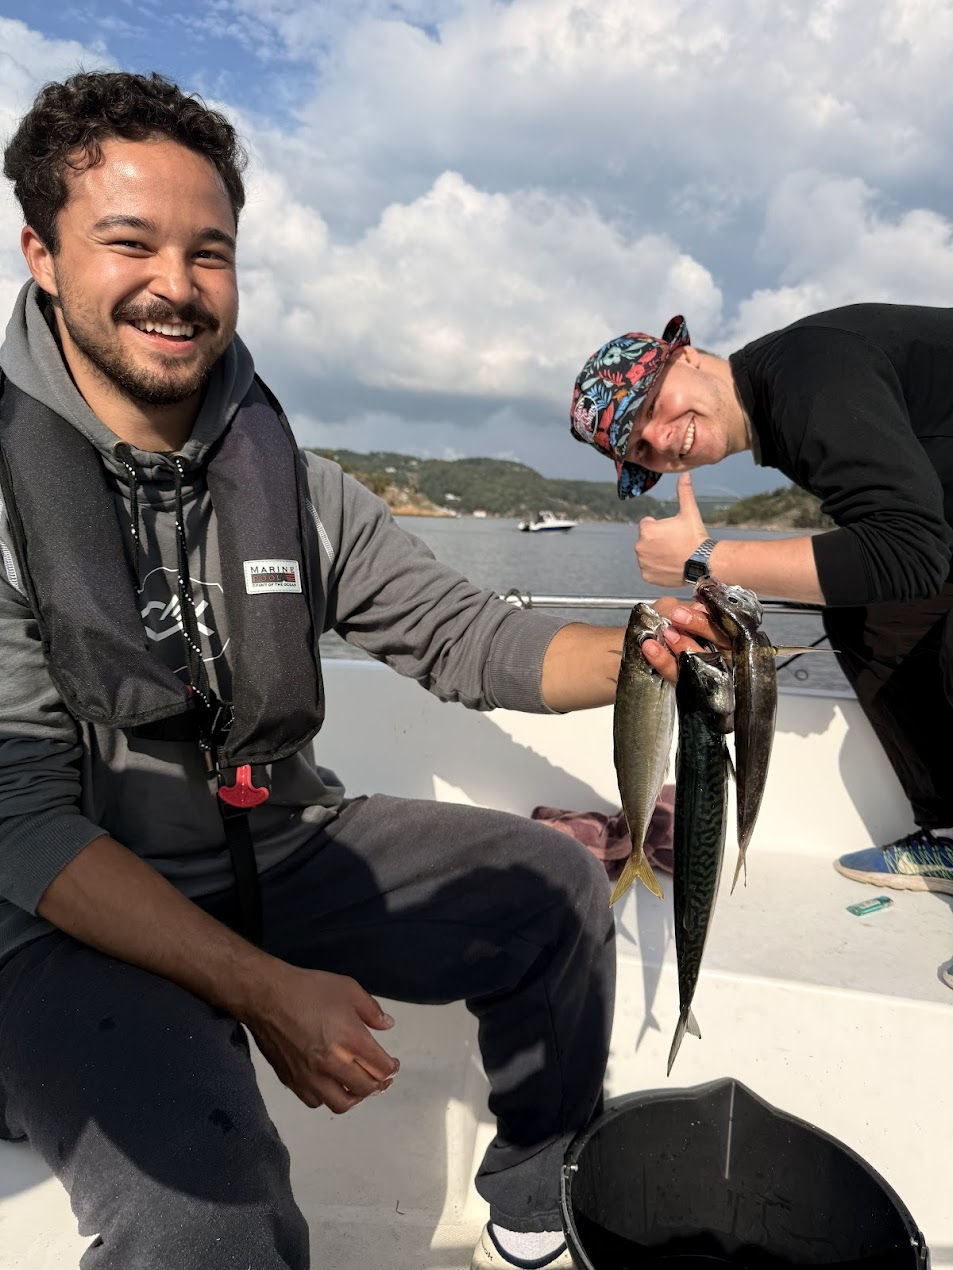
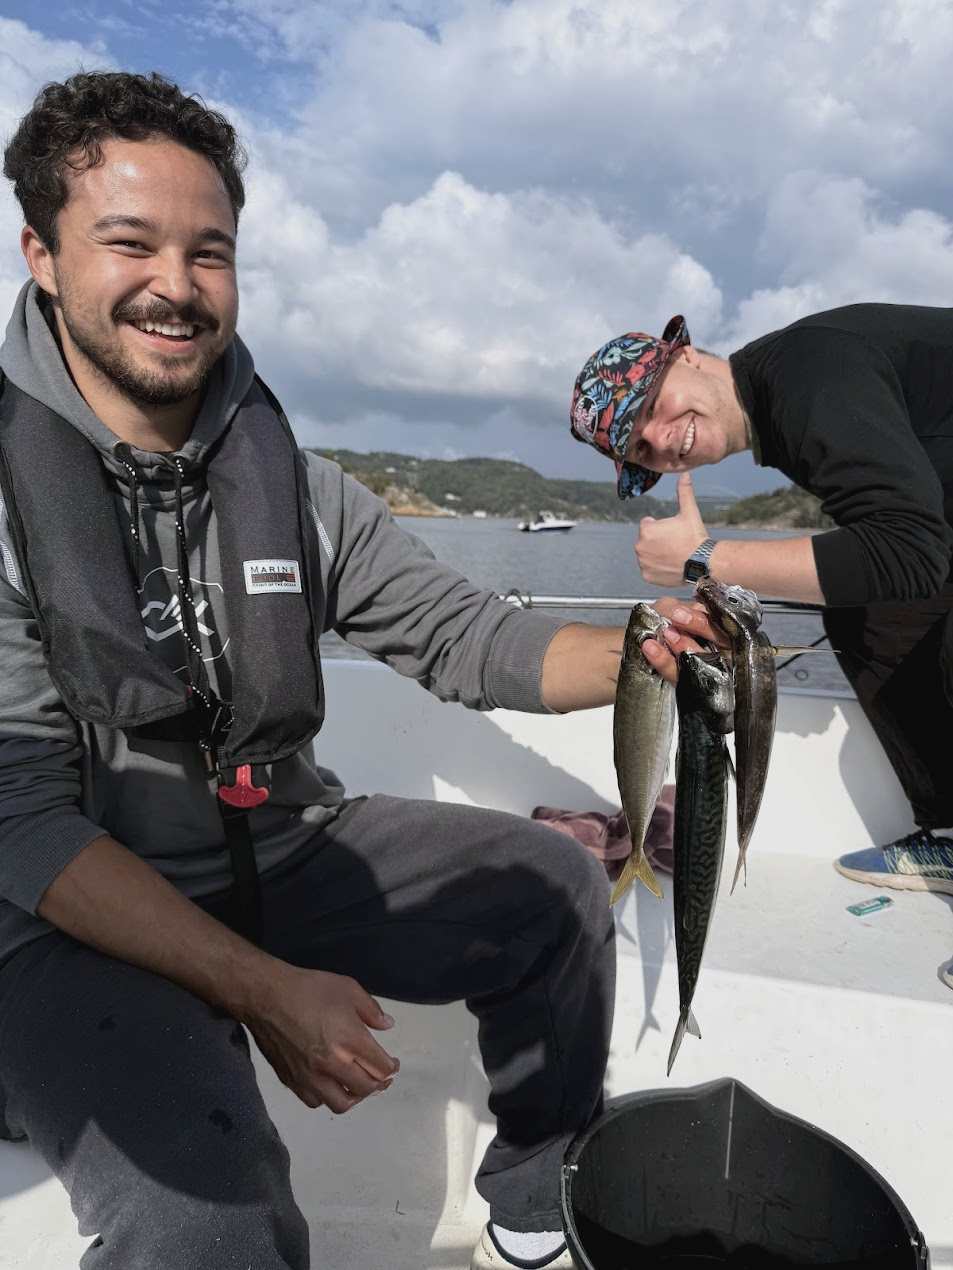
feat: remove HDR from photos

diff --git a/index.html b/index.html
@@ -3,12 +3,12 @@
   <head>
     <meta charset="UTF-8" />
     <meta name="viewport" content="width=device-width, initial-scale=1.0" />
-    <title>Daniel Nursen - Data Analyst & BI Specialist</title>
-    <meta name="description" content="Portfolio and resume of Daniel Nursen, a data analyst specializing in business intelligence, data visualization, and statistical analysis." />
-    <meta name="author" content="Daniel Nursen" />
+    <title>Daniel's Vocatio</title>
+    <meta name="description" content="Portfolio and resume of Daniel, a data analyst specializing in business intelligence, data visualization, and statistical analysis." />
+    <meta name="author" content="Daniel" />
 
-    <meta property="og:title" content="Daniel Nursen - Data Analyst & BI Specialist" />
-    <meta property="og:description" content="Portfolio and resume of Daniel Nursen, a data analyst specializing in business intelligence and data visualization." />
+    <meta property="og:title" content="Daniel's Vocatio" />
+    <meta property="og:description" content="Portfolio and resume of Daniel, a data analyst specializing in business intelligence and data visualization." />
     <meta property="og:type" content="website" />
     <meta property="og:image" content="https://lovable.dev/opengraph-image-p98pqg.png" />
 
